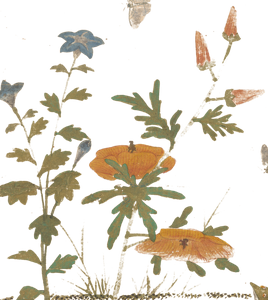
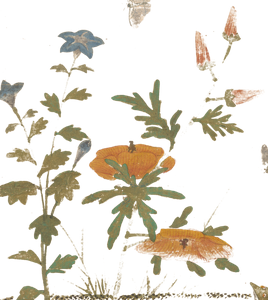
feat(chochungdo): cleaner cut-outs for the mottled panels (per-prop thresholds), README entry for the painting props (panels stay local, 15MB each)

diff --git a/tools/art/cut_chochungdo.py b/tools/art/cut_chochungdo.py
@@ -15,6 +15,7 @@ from PIL import Image, ImageFilter
 SRC = r"C:/Haneol-Heroes/assets/concept/chochungdo_src"
 OUT = "assets/props/chochungdo"
 MAX_PX = 300  # 소품 한 변 최대 (화면에서 0.55~0.8배로 그려진다)
+THRESH = {"screen_poppy": (34.0, 62.0), "screen_smartweed": (30.0, 58.0), "screen_orange_flower": (30.0, 58.0)}  # 종이가 얼룩진 판
 SMALL = {"screen_butterfly_red": 120, "screen_butterfly_white": 130, "screen_moth_eggplant": 90, "screen_dragonfly": 150}
 
 # 이름: (판, (x0, y0, x1, y1) 비율, 막히는 소품인지)
@@ -68,7 +69,7 @@ def main(src=SRC, out=OUT):
     for name, (panel, box, _solid) in CUTS.items():
         if panel not in cache:
             cache[panel] = Image.open(os.path.join(src, "clean_%s.jpg" % panel))
-        cut(cache[panel], box, max_px=SMALL.get(name, MAX_PX)).save(os.path.join(out, name + ".png"))
+        cut(cache[panel], box, thresh=THRESH.get(name, (24.0, 52.0)), max_px=SMALL.get(name, MAX_PX)).save(os.path.join(out, name + ".png"))
         print("cut", name)
 
 

diff --git a/README.md b/README.md
@@ -184,7 +184,7 @@ Claude 개발 스킬: 프로젝트 범위 플러그인 `godot@awesome-gamedev-ag
 | Asianoriental1 (무대 1 음악) | — | CC0 | https://opengameart.org/content/asianoriental1 — 모노 22kHz로 줄임 |
 | Health, HitBoxes, HurtBoxes and HitScans | 5.0.4 + HH 패치 | MIT (`addons/health_hitbox_hurtbox/LICENSE`) | https://github.com/cluttered-code/godot-health-hitbox-hurtbox |
 | 바닥 결 재질 (한산 판자: 밝기만 남긴 회색 결 층으로 가공해 바닥 그림에 곱함, `tools/art/make_grain.py`) | Poly Haven `weathered_brown_planks` 2K diffuse (2026-11-23 받음, 원본 `assets/concept/textures_src/`) | CC0 (https://polyhaven.com/license: "Our assets are all licensed as CC0", 상업 이용·변형 가능, 출처 표시 불필요) | https://polyhaven.com/a/weathered_brown_planks |
-| 초충도 병풍 그림 소품 (예정: 수박·가지·맨드라미·원추리·양귀비·나비·잠자리와 병풍 표구 테두리를 잘라 소품으로) | 전 신사임당필 초충도(신수3550), 국립중앙박물관 | 공공누리 제1유형 (출처 표시, 상업 이용·변형 가능; 페이지 표기 "공공누리 1유형 - 출처표시") | https://www.museum.go.kr/site/main/relic/search/view?relicId=2061 · Commons Chochungdo_01~10 — 출처 문구는 `docs/credits_draft.md` (아직 받지 못함: 위키미디어 429) |
+| 초충도 병풍 그림 소품 (식물·열매·나비·잠자리를 종이 바탕에서 잘라 `assets/props/chochungdo/screen_*.png`로: `tools/art/cut_chochungdo.py`, 크기만 줄임) | 전 신사임당필 초충도(신수3550) 8폭, 국립중앙박물관 (사용자가 2026-11-23 박물관에서 받은 그림만 잘린 판, 판당 약 15MB라 **저장소에는 올리지 않고** 로컬 `assets/concept/chochungdo_src/`에만 둠) | 공공누리 제1유형 (출처 표시, 상업 이용·변형 가능; 페이지 표기 "공공누리 1유형 - 출처표시") | https://www.museum.go.kr/site/main/relic/search/view?relicId=2061 — 게임 안 표기 문구는 `docs/credits_draft.md` |
 | Meshy API (AI 3D 생성 서비스, 개발 도구에서 호출) | openapi v1 | 유료 플랜 산출물 사용 조건은 Meshy 약관 | https://docs.meshy.ai/en/api |
 | 순신 실시간 3D 모델 (Meshy 유료 플랜 산출물을 가공: 뼈대·스킨 메시, 1024² 텍스처, 동작 9개) | 2026-11-22 생성 (Meshy 작업 01a200c7·01a200c8, 동작 Idle·Run 2·Roll Dodge·Hit Reaction·Dead·Triple Combo Attack·Charged Upward Slash·Right-hand Sword Slash·Double Blade Spin) | 유료 플랜 산출물 — Meshy 약관 (원본 .glb·state.json은 저장소에 없음) | `assets/live3d/yi_sun_sin/` ← `tools/live3d/pack_model.gd`가 `assets/models/meshy/yi_sun_sin/*.glb`(gitignore)에서 만든다. 패치: LOD·그림자 메시·동작 트랙 제거, 텍스처 2048→1024 (Lanczos, VRAM 압축), 동작은 .res로 따로 |
 | 한산 대장(왜군 지휘관) 실시간 3D 모델 (Meshy 유료 플랜 산출물을 가공: 뼈대·스킨 메시, 1024² 텍스처, 동작 5개) | 2026-11-23 가공 (Meshy 작업 01a2009c·01a2009e, 동작 Idle·Walk Fight Forward·Hit Reaction·Charged Spell Cast·Charged Slash) | 유료 플랜 산출물 — Meshy 약관 (원본 .glb·state.json은 저장소에 없음) | `assets/live3d/waegun_commander/` ← `tools/live3d/pack_model.gd waegun_commander`가 `assets/models/meshy/waegun_commander/*.glb`(gitignore)에서 만든다. 패치: 순신과 같음 + 공격 동작에 구운 시트의 칸 시각(times) 덧붙임 (`data/live3d/waegun_commander.tres`) |
